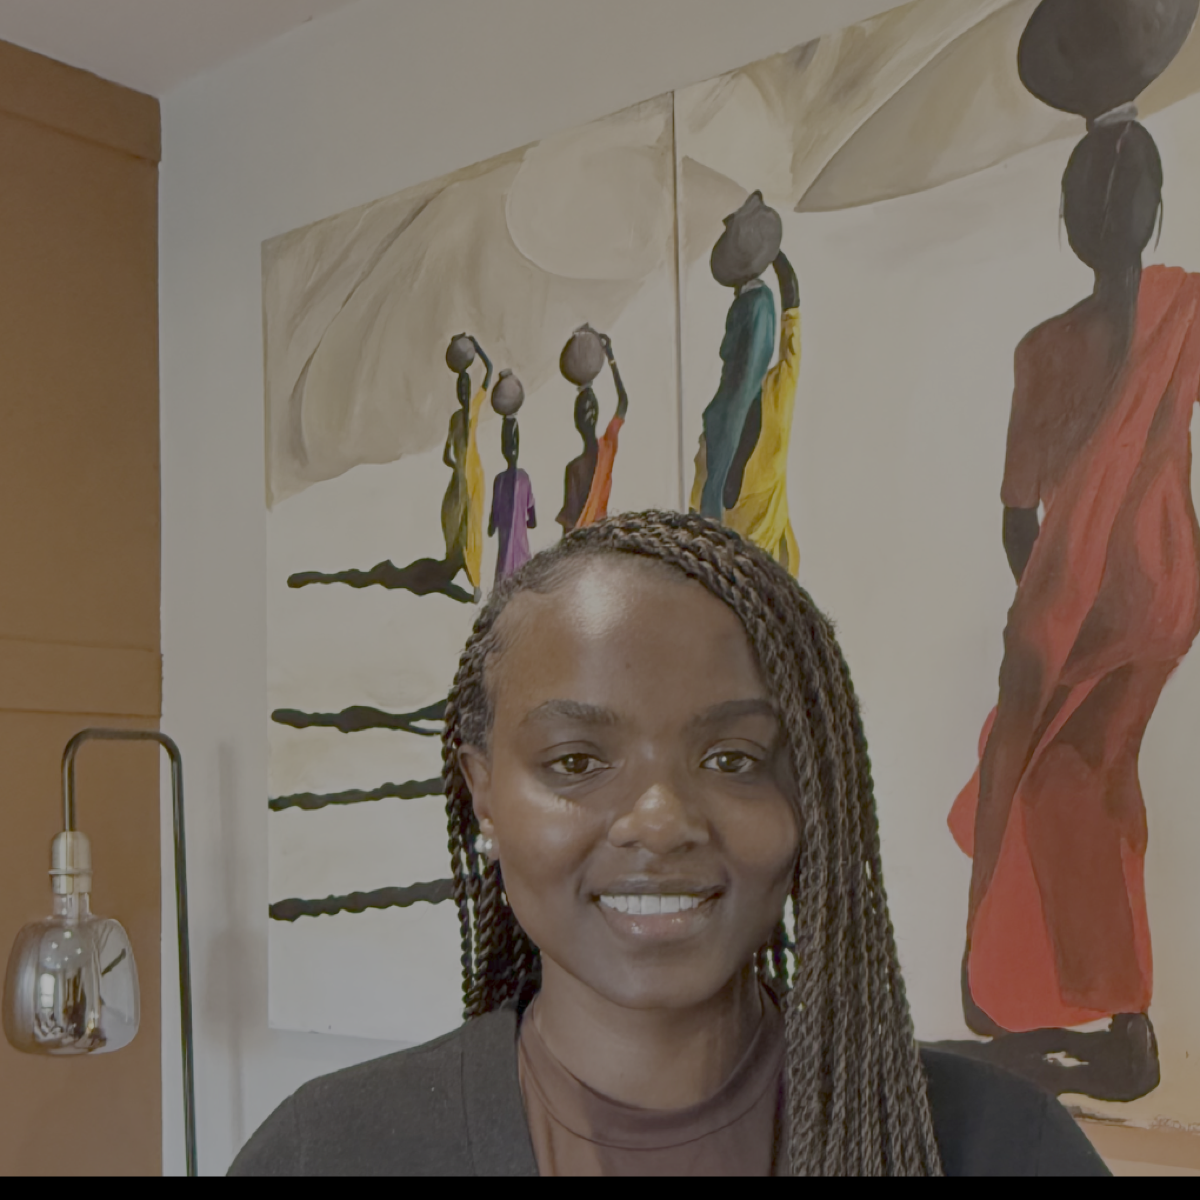
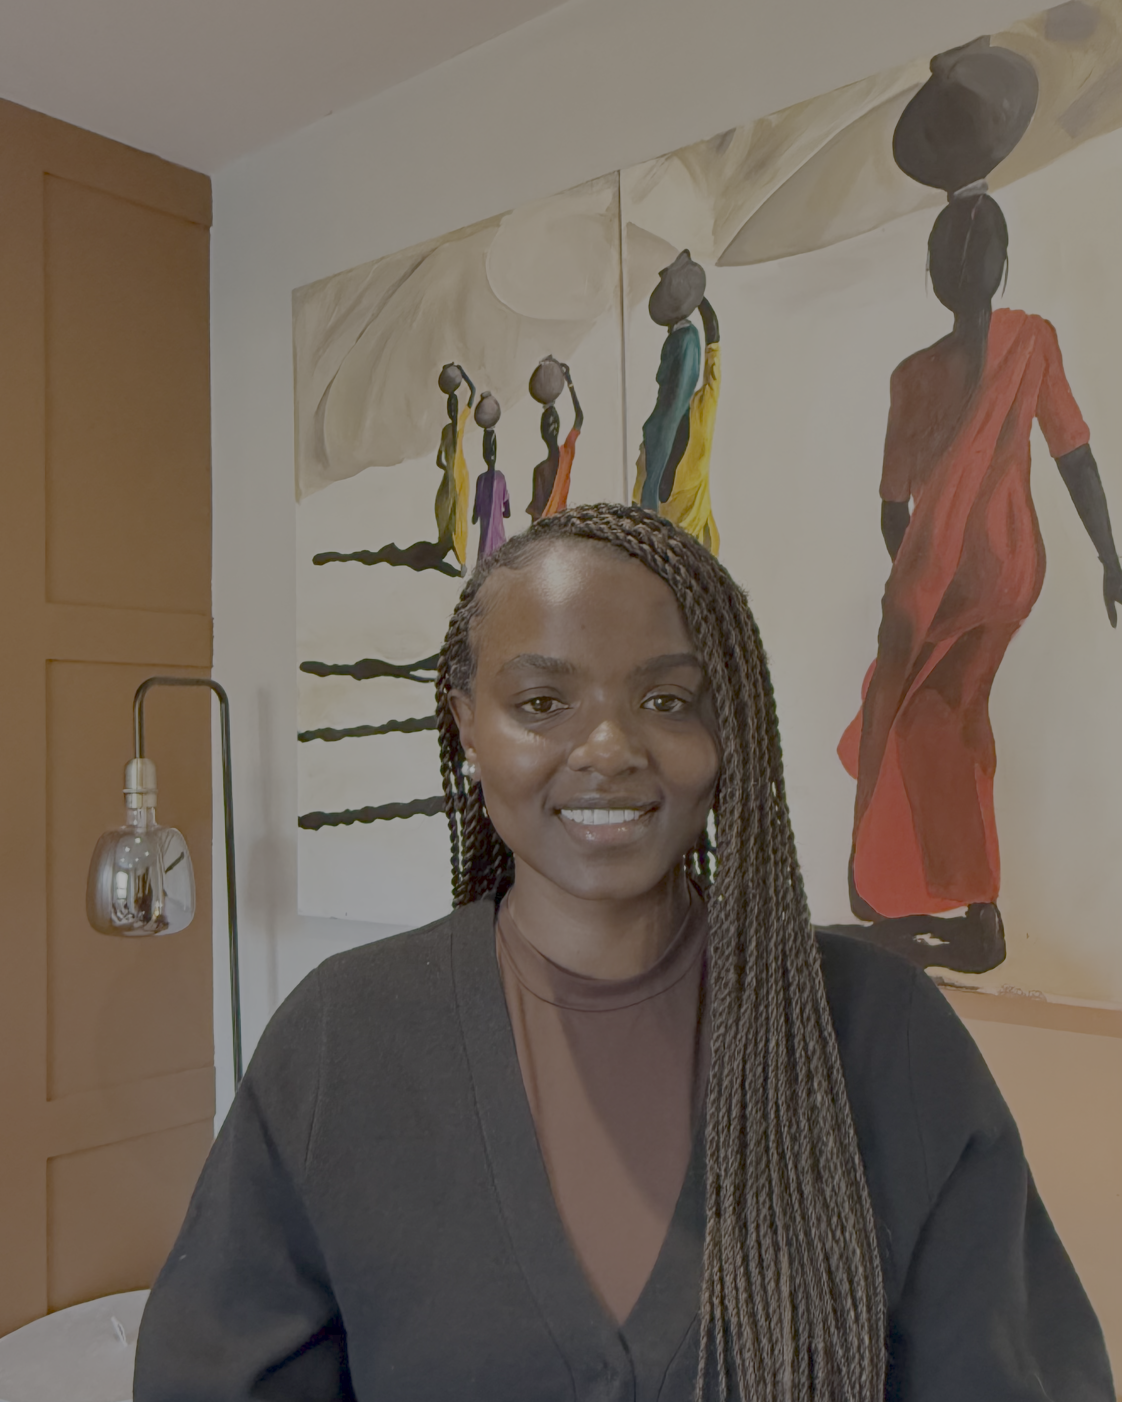
Restore Meet Stacy portrait crop and brighten the photo.

diff --git a/app/page.tsx b/app/page.tsx
@@ -302,13 +302,13 @@ export default function Home() {
               aria-hidden="true"
               className="absolute -left-4 -top-4 h-16 w-16 rounded-full bg-[#D96F59]/90 sm:h-20 sm:w-20"
             />
-            <div className="relative aspect-square overflow-hidden rounded-[3rem_1.5rem_3rem_1.5rem] border-4 border-white bg-white shadow-[0_22px_50px_rgba(23,78,79,0.18)]">
+            <div className="relative aspect-[1122/1402] overflow-hidden rounded-[3rem_1.5rem_3rem_1.5rem] border-4 border-white bg-white shadow-[0_22px_50px_rgba(23,78,79,0.18)]">
               <Image
                 src={profilePhoto}
                 alt="Stacy Nyangere"
-                width={1200}
-                height={1200}
-                className="h-full w-full object-cover object-center"
+                width={1122}
+                height={1402}
+                className="h-full w-full object-cover object-center brightness-[1.12] contrast-[1.03]"
                 priority
               />
             </div>
